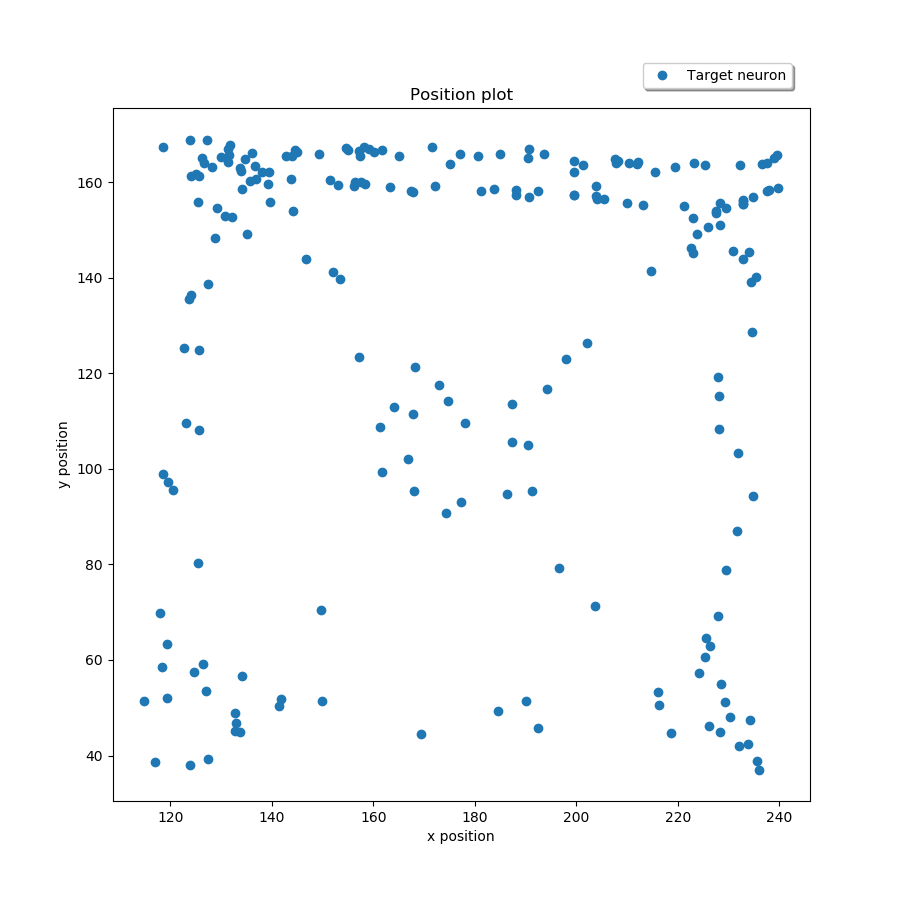
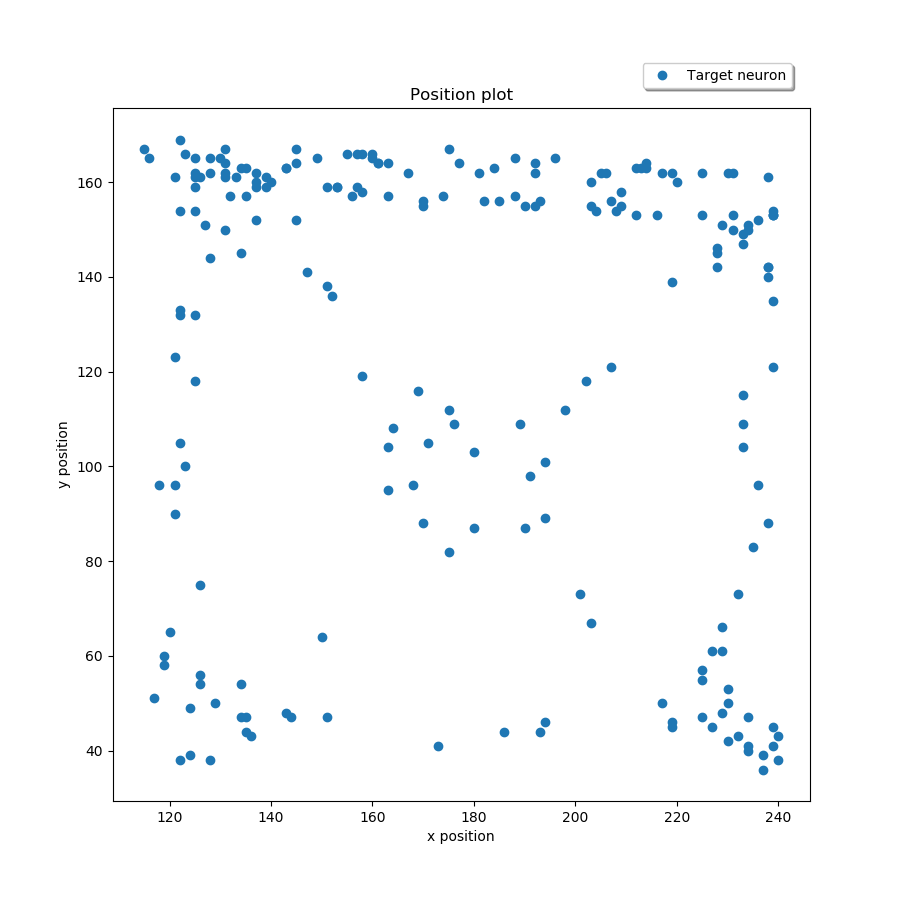
overlapped results

diff --git a/core/diffusion_lib_overlap.py b/core/diffusion_lib_overlap.py
@@ -1,0 +1,164 @@
+import sys
+import scipy.io
+import numpy as np
+import pandas as pd
+import matplotlib.pyplot as plt
+from mpl_toolkits.mplot3d import Axes3D 
+
+from sklearn.datasets import load_digits
+from sklearn.manifold import SpectralEmbedding
+
+#X = np.genfromtxt("../data/processed/hc_13/T22_4.csv", delimiter=',')[:, (1,2)]
+d1 = np.load("../distances/21/1/distance_matrix_T22_0_1s_20ms.npy")
+#d2 = np.load("../distances/21/1/distance_matrix_T22_1_1s_20ms.npy")
+d3 = np.load("../distances/21/1/distance_matrix_T22_2_1s_20ms.npy")
+d4 = np.load("../distances/21/1/distance_matrix_T22_3_1s_20ms.npy")
+d5 = np.load("../distances/21/1/distance_matrix_T26_0_1s_20ms.npy")
+d6 = np.load("../distances/21/1/distance_matrix_T27_0_1s_20ms.npy")
+d7 = np.load("../distances/21/1/distance_matrix_T27_1_1s_20ms.npy")
+d8 = np.load("../distances/21/1/distance_matrix_T27_2_1s_20ms.npy")
+d9 = np.load("../distances/21/1/distance_matrix_T27_3_1s_20ms.npy")
+d10 = np.load("../distances/21/1/distance_matrix_T27_4_1s_20ms.npy")
+d11 = np.load("../distances/21/1/distance_matrix_T27_5_1s_20ms.npy")
+d12 = np.load("../distances/21/1/distance_matrix_T27_6_1s_20ms.npy")
+#d13 = np.load("../distances/21/1/distance_matrix_T27_7_1s_20ms.npy")
+# d1 = d1/np.amax(d1)
+# d2 = d2/np.amax(d2)
+# d3 = d3/np.amax(d3)
+# d4 = d4/np.amax(d4)
+# d5 = d5/np.amax(d5)
+# d6 = d6/np.amax(d6)
+# d7 = d7/np.amax(d7)
+# d8 = d8/np.amax(d8)
+# d9 = d9/np.amax(d9)
+# d10 = d10/np.amax(d10)
+# d11 = d11/np.amax(d11)
+# d12 = d12/np.amax(d12)
+dM = np.sqrt(d1**2 + d3**2 + d4**2 + d5**2 + d6**2 + d7**2 + d8**2 + d9**2 + d10**2 + d11**2 + d12**2)
+#dM = np.sqrt(d1**2 + d2**2 + d3**2 + d4**2 + d5**2 + d6**2 + d7**2 + d8**2 + d9**2 + d10**2 + d11**2 + d12**2)
+
+#dM = np.load("../distances/21/1/distance_matrix_spatial.npy")
+
+def thresholdMatrix(sM, topN):
+  n = sM.shape[0]
+  m = sM.shape[1]
+  result = np.zeros(shape=(n,m))
+
+  columnSorted = np.sort(sM,axis=0)
+  rowSorted = np.sort(sM,axis=1)
+
+  rowTopN = np.zeros(n)
+  columnTopN = np.zeros(n)
+  for i in range(0, n):
+    rowTopN[i] = rowSorted[i, :][n-topN]
+    columnTopN[i] = columnSorted[:, i][n-topN]
+
+
+  for i in range(0, n):
+    for j in range(0, m):
+      if (sM[i][j]>=rowTopN[i] or sM[i][j]>=columnTopN[j]):
+        result[i][j] = sM[i][j]
+
+  return result
+
+embedding = SpectralEmbedding(n_components=2, affinity="precomputed", n_neighbors=0)
+coords = embedding.fit( thresholdMatrix(1/(dM+0.1), 10) ).embedding_
+#coords = embedding.fit( 1/(dM+0.0001) ).embedding_
+#coords = embedding.fit( 1/(dM + 0.01)**2).embedding_
+#coords = embedding.fit( np.exp(-dM) ).embedding_
+#coords = embedding.fit( np.exp(-dM/4) ).embedding_
+#coords = embedding.fit( np.exp(-dM/64) ).embedding_
+print(coords.shape)
+
+
+
+
+
+
+############################ CORNER OVERLAP ###########################
+
+
+
+mat = scipy.io.loadmat('../data/raw/hc_13/T1rawpos.mat')
+days = mat['rawpos']
+
+day = int(sys.argv[1])
+epoch = int(sys.argv[2])
+cellNo = sys.argv[3]
+start = int(sys.argv[4])
+end = int(sys.argv[5])
+
+d = days[0][day][0][epoch][0][0]['data']
+spikes = d[:, 0]
+xs = d[:, 1]
+ys = d[:, 2]
+
+fct = 1
+rng = int((end-start)/fct)
+resX = np.zeros(rng)
+resY = np.zeros(rng)
+
+for i in range(0, spikes.size):
+  resX[int((int(spikes[i])-start)/fct)] = xs[i]
+  resY[int((int(spikes[i])-start)/fct)] = ys[i]
+
+# fig = plt.figure()
+# ax = fig.gca(projection='3d')
+# z = np.linspace(0, rng, rng)
+
+# ax.plot(resX, resY, z, 'o-', label='parametric curve', linewidth=0.6, markersize=1)# c = plt.cm.jet(z/max(z)))
+# ax.legend()
+
+# #plt.show()
+# plt.savefig("../plots/position_plot/" + sys.argv[1] + "/" + sys.argv[2] + "/overall3D.png")
+
+fig = plt.figure(figsize=(9,9))
+ax = plt.subplot(111)
+ax.plot(resX, resY, 'o', label="Target neuron")
+plt.title('Position plot')
+plt.xlabel('x position')
+plt.ylabel('y position')
+ax.legend(loc='upper left', bbox_to_anchor=(0.75, 1.075), shadow=True, ncol=1)
+plt.savefig("../plots/position_plot/" + sys.argv[1] + "/" + sys.argv[2] + "/filtered_" + cellNo + ".png")
+
+
+cornerX = []
+cornerY = []
+cornerIdx1= np.zeros(rng)
+cornerIdx2 = np.zeros(rng)
+cornerIdx3 = np.zeros(rng)
+cornerIdx4 = np.zeros(rng)
+ncX = []
+ncY = []
+
+
+for i in range(0,rng):
+  if (resX[i]>240 or resX[i]<115 or resY[i]>170 or resY[i]<35):
+    cornerX.append(resX[i])
+    cornerY.append(resY[i])
+    if (resX[i]<115 and resY[i]>100):
+      cornerIdx1[i] = 0.05
+    elif (resX[i]<115 and resY[i]<100):
+      cornerIdx2[i] = 0.05
+    elif (resX[i]>240 and resY[i]<100):
+      cornerIdx3[i] = 0.05
+    elif (resX[i]>240 and resY[i]>100):
+      cornerIdx4[i] = 0.05
+  else:
+    ncX.append(resX[i])
+    ncY.append(resY[i])
+
+
+fig = plt.figure(figsize=(9,9))
+ax = plt.subplot(111)
+ax.plot(coords[:, 0][300:400], 'o-', label="Target neurons")
+ax.plot(cornerIdx1[300:400], 'o', label="Corner1")
+ax.plot(cornerIdx2[300:400], 'o', label="Corner2")
+ax.plot(cornerIdx3[300:400], 'o', label="Corner3")
+ax.plot(cornerIdx4[300:400], 'o', label="Corner4")
+plt.title('DM_lib Dimensions')
+plt.xlabel('dimension1')
+plt.ylabel('dimension2')
+ax.legend(loc='lower left',  shadow=True, ncol=1)#bbox_to_anchor=(0.75, 1.075),
+#plt.savefig('../results/dm/21/1/test_dmlib_ev1.svg', format="svg")
+plt.savefig('../results/21/1/dmev1_overlap_300.png')

diff --git a/core/spatial_filter.py b/core/spatial_filter.py
@@ -5,17 +5,20 @@ import pandas as pd
 import matplotlib.pyplot as plt
 from mpl_toolkits.mplot3d import Axes3D 
 
-day = sys.argv[1]
-epoch = sys.argv[2]
+
+mat = scipy.io.loadmat('../data/raw/hc_13/T1rawpos.mat')
+days = mat['rawpos']
+
+day = int(sys.argv[1])
+epoch = int(sys.argv[2])
 cellNo = sys.argv[3]
 start = int(sys.argv[4])
 end = int(sys.argv[5])
 
-df = pd.read_csv("../data/processed/hc_13/" + day + "/" + epoch + "/" + cellNo + ".csv", header=None)
-
-spikes = df[0].values
-xs = df[1].values
-ys = df[2].values
+d = days[0][day][0][epoch][0][0]['data']
+spikes = d[:, 0]
+xs = d[:, 1]
+ys = d[:, 2]
 
 fct = 1
 rng = int((end-start)/fct)
@@ -48,13 +51,26 @@ plt.savefig("../plots/position_plot/" + sys.argv[1] + "/" + sys.argv[2] + "/filt
 
 cornerX = []
 cornerY = []
+cornerIdx1= np.zeros(rng)
+cornerIdx2 = np.zeros(rng)
+cornerIdx3 = np.zeros(rng)
+cornerIdx4 = np.zeros(rng)
 ncX = []
 ncY = []
 
+
 for i in range(0,rng):
-	if (resX[i]>240 or resX[i]<110 or resY[i]>170 or resY[i]<35):
+	if (resX[i]>240 or resX[i]<115 or resY[i]>170 or resY[i]<35):
 		cornerX.append(resX[i])
 		cornerY.append(resY[i])
+		if (resX[i]<115 and resY[i]>100):
+			cornerIdx1[i] = -1
+		elif (resX[i]<115 and resY[i]<100):
+			cornerIdx2[i] = -1
+		elif (resX[i]>240 and resY[i]<100):
+			cornerIdx3[i] = -1
+		elif (resX[i]>240 and resY[i]>100):
+			cornerIdx4[i] = -1
 	else:
 		ncX.append(resX[i])
 		ncY.append(resY[i])
@@ -78,3 +94,15 @@ plt.xlabel('x position')
 plt.ylabel('y position')
 ax.legend(loc='upper left', bbox_to_anchor=(0.75, 1.075), shadow=True, ncol=1)
 plt.savefig("../plots/position_plot/" + sys.argv[1] + "/" + sys.argv[2] + "/filtered_nc_" + cellNo + ".png")
+
+fig = plt.figure(figsize=(9,9))
+ax = plt.subplot(111)
+ax.plot(cornerIdx1[200:245], 'o', label="Corner1")
+ax.plot(cornerIdx2[200:245], 'o', label="Corner2")
+ax.plot(cornerIdx3[200:245], 'o', label="Corner3")
+ax.plot(cornerIdx4[200:245], 'o', label="Corner4")
+plt.title('Position plot')
+plt.xlabel('x position')
+plt.ylabel('y position')
+ax.legend(loc='upper left', bbox_to_anchor=(0.75, 1.075), shadow=True, ncol=1)
+plt.savefig("../plots/position_plot/" + sys.argv[1] + "/" + sys.argv[2] + "/filtered_ctime_" + cellNo + ".png")

diff --git a/core/VR_filtered.py b/core/VR_filtered.py
@@ -1,0 +1,65 @@
+import sys
+import numpy as np
+#import pandas as pd
+#import matplotlib.pyplot as plt
+
+
+def vanRossumDistance(u, v, tau):
+  componentU = 0;
+  for i in range(0, u.shape[0]):
+    for j in range(0, u.shape[0]):
+      componentU += np.exp(-abs(u[i]-u[j])/tau)
+
+  componentV = 0;
+  for i in range(0, v.shape[0]):
+    for j in range(0, v.shape[0]):
+      componentV += np.exp(-abs(v[i]-v[j])/tau)
+
+  componentUV = 0;
+  for i in range(0, u.shape[0]):
+    for j in range(0, v.shape[0]):
+      componentUV += np.exp(-abs(u[i]-v[j])/tau)
+
+  return (componentU + componentV - 2*componentUV)
+
+
+def generateDistanceMatrix(n, tau):
+  result = np.zeros(shape=(n,n))
+  ncounts = {}
+
+  for i in range(0, n):
+    ncounts[i] = np.asarray(n1counts[i] if (i in n1counts) else [])
+
+  for i in range(0, n):
+    print(i)
+    for j in range(i+1, n):
+      result[i][j] = vanRossumDistance(ncounts[i], ncounts[j], tau)
+  
+  for i in range(0, n):
+    for j in range(0, i):
+      result[i][j] = result[j][i]
+
+  return np.sqrt(result)
+
+#args : day epoch cellNo start_time end_time
+#df1 = pd.read_csv("../data/processed/hc_13/" + sys.argv[1] + ".csv", header=None)
+#n1 = df1[0].values
+n1 = np.genfromtxt("../data/processed/hc_13/" + sys.argv[1] + "/" + sys.argv[2] + "/" + sys.argv[3] + ".csv", delimiter=',')
+if (n1.size!=n1.shape[0]):
+	n1 = n1[:, 0]
+start = int(sys.argv[4])
+end = int(sys.argv[5])
+slots = end-start
+n1counts = {}
+
+for spike_time in n1:
+	key = int(spike_time-start)
+	if (key in n1counts):
+		n1counts[key].append(int((spike_time-int(spike_time))*1000))
+	else:
+		n1counts[key] = [int((spike_time-int(spike_time))*1000)]
+
+d = generateDistanceMatrix(slots, int(sys.argv[4]))
+
+np.save("../distances/" + sys.argv[1] + "/" + sys.argv[2] + "/" + "distance_matrix_" + sys.argv[3] + "_1s_20ms.npy", d)
+#print(d.shape)
